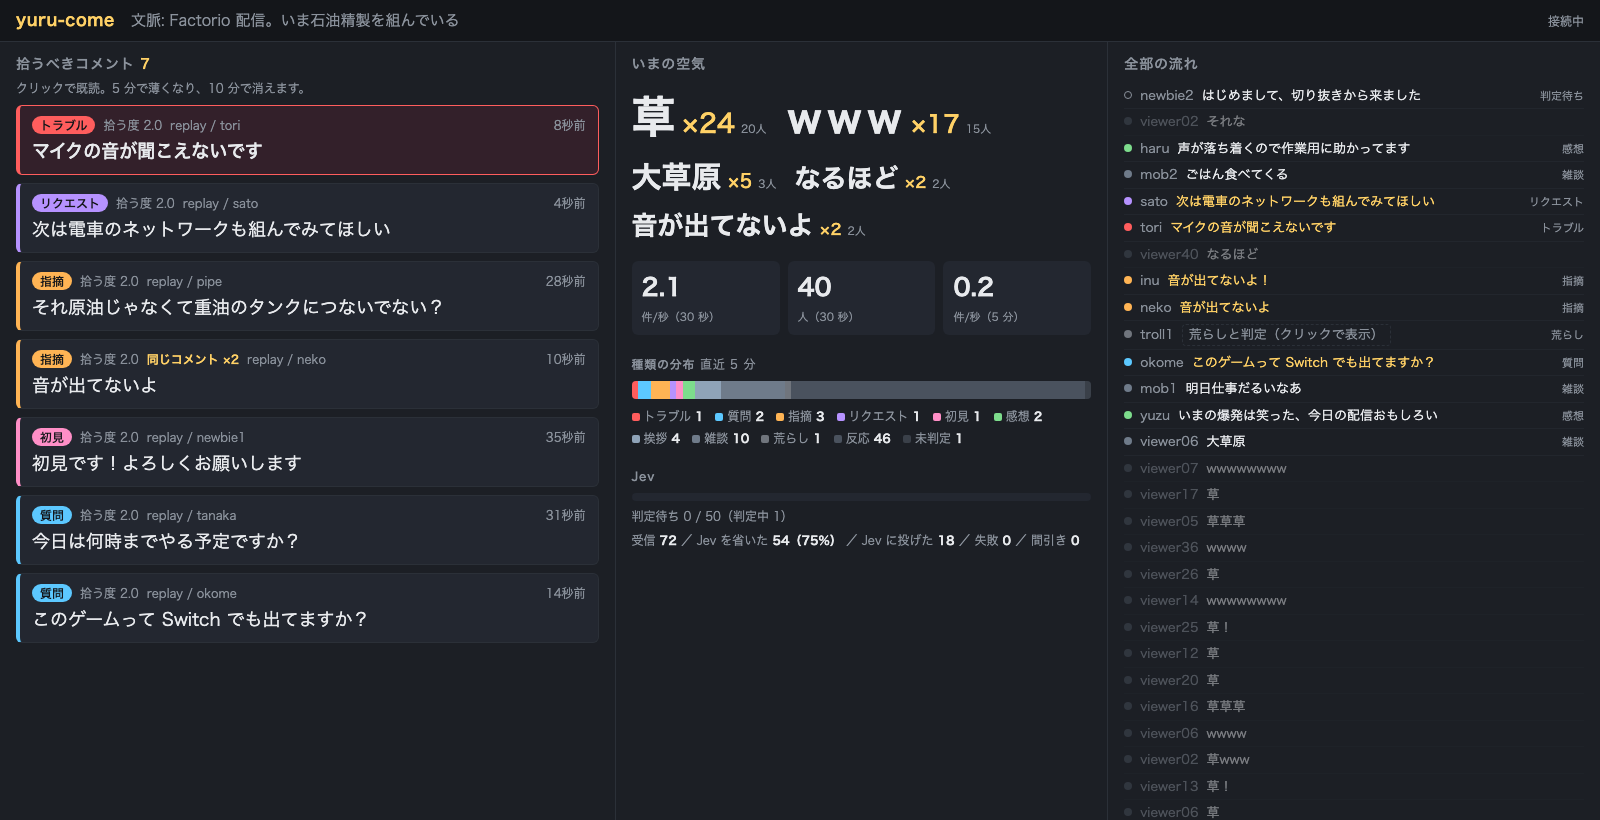
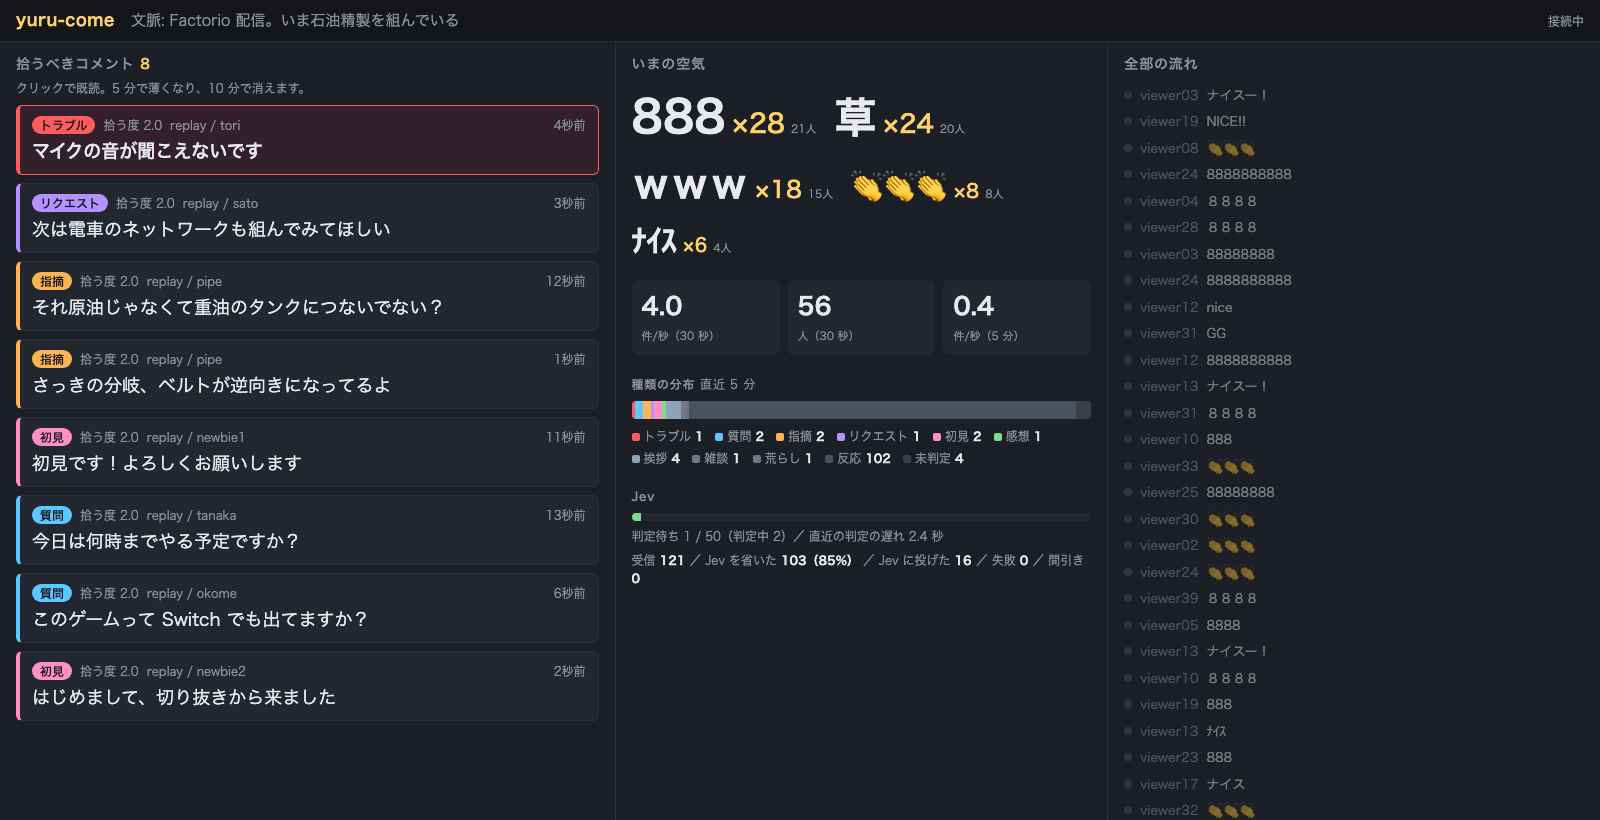
docs: README（コンセプト、処理の図、使い方、kind、評価結果、併用の仕方）と NOTICE を追加

diff --git a/README.mbt.md b/README.mbt.md
@@ -1,1 +1,303 @@
-# hiroyannnn/yuru-come
+# yuru-come（ゆるコメントビューワー）
+
+配信のコメントを**全部読まなくていい**ようにする、拾い上げ専用パネルです。
+
+コメントが多い配信では、質問や初見の挨拶が「草」「www」「8888」の波に埋もれます。yuru-come は同じ反応を束ねて「草 ×48」にまとめ、残った中身のあるコメントだけを [TypeSafe Jev](https://docs.typesafe.ai/) に仕分けさせて、配信者が拾うべきものを左の枠に出します。
+
+![ダッシュボード](docs/dashboard.png)
+
+既存のコメントビューワー（わんコメ、マルチコメントビューア、CastCraft など）の置き換えではありません。それらは複数サイトのコメントを 1 画面に集めて流す・読み上げるための道具で、yuru-come はその横に置く「拾い上げ専用」の画面です（[既存のコメントビューワーとの併用](#既存のコメントビューワーとの併用)）。
+
+## 処理の流れ
+
+```mermaid
+flowchart LR
+  S[Source<br>Twitch / YouTube / stdin / replay] --> N[正規化]
+  N --> B[1. 束ねる<br>同じ反応を時間窓でまとめる]
+  B --> R{反応？<br>長さ・文字種・辞書}
+  R -- はい --> K[kind = reaction]
+  R -- いいえ --> D{同じ束が<br>判定済み？}
+  D -- はい --> I[その判定に相乗り]
+  D -- いいえ --> Q[判定待ちキュー<br>上限 50]
+  Q -- あふれた分 --> U[未判定のまま<br>流れにだけ出す]
+  Q --> J[2. 仕分ける<br>Jev: kind + priority]
+  K --> V[3. 見せる]
+  I --> V
+  J --> V
+  U --> V
+  V --> P[拾うべきコメント]
+  V --> M[いまの空気]
+  V --> F[全部の流れ]
+```
+
+1. **束ねる（Jev を使わない）**: コメントを正規化して、同じ反応を 30 秒の時間窓の中でまとめます。
+2. **仕分ける（Jev）**: 束ねられなかった中身のあるコメントだけを Jev に投げ、種類（kind）と「配信者が拾うべき度」（priority）を 1 リクエストで判定します。Jev は文章を生成しない判断専用モデルで、型付きの質問に確率分布で答えます。
+3. **見せる**: 3 枠のダッシュボードに出します。
+
+Jev が遅くてもチャットの読み取りは止めません。判定待ちが上限を超えたら、古くて短いコメントから「未判定のまま全部の流れにだけ出す」扱いにして落とします。
+
+## セットアップ
+
+[MoonBit](https://www.moonbitlang.com/download/)（moon 0.1.20260915 以降）と、Jev 互換の判定サーバが必要です。
+
+```bash
+git clone https://github.com/hiroyannnn/yuru-come
+cd yuru-come
+moon build --target native
+```
+
+判定サーバは環境変数で選びます。
+
+| 環境変数 | 既定 | 意味 |
+| --- | --- | --- |
+| `JEV_URL` | `http://127.0.0.1:8000` | Jev 互換 API のベース URL（`POST /v1/systemone`） |
+| `JEV_API_KEY` | `local` | Bearer トークン |
+| `JEV_MODEL` | `jev-latest` | リクエストに載せるモデル名 |
+| `YOUTUBE_API_KEY` | なし | `--source youtube` のときだけ必要 |
+
+本家 Jev は Vercel AI Gateway 経由で使えます。
+
+```bash
+export JEV_URL=https://ai-gateway.vercel.sh/typesafe
+export JEV_MODEL=typesafe-ai/jev
+export JEV_API_KEY=<AI Gateway の API キー>
+```
+
+ローカルで試すなら [open-jev](https://github.com/daseinlabs/open-jev)（Gemma 3 4B）を `127.0.0.1:8000` で起動します。ただし open-jev は score 質問（priority）がほぼ常に最大値になり、1 リクエストに 1.3 秒ほどかかります。open-jev で使うときは `--priority-threshold 2.1` を付けて種類だけで拾ってください（[評価結果](#評価結果)）。
+
+## 使い方
+
+```bash
+moon run --target native cmd/yuru-come -- --source twitch --twitch <channel> --port 8791
+```
+
+`http://127.0.0.1:8791/` を開くとダッシュボードが出ます。配信者が自分で見る画面で、OBS に載せるものではありません。
+
+| オプション | 既定 | 意味 |
+| --- | --- | --- |
+| `--source stdin\|twitch\|youtube\|replay` | `stdin` | コメントの入口。複数指定可 |
+| `--sink web\|terminal` | `web` | 出口。複数指定可 |
+| `--context <text>` | なし | Jev に渡す配信の文脈（配信タイトルや話題）。指摘や質問の判定が安定します |
+| `--port <n>` / `--host <addr>` | `8791` / `127.0.0.1` | ダッシュボードの待ち受け |
+| `--workers <n>` | `2` | 並行して Jev に投げる本数。本家 Jev なら増やせます |
+| `--queue-limit <n>` | `50` | 判定待ちキューの上限 |
+| `--window <sec>` | `30` | 反応を束ねる時間窓 |
+| `--threshold <0..1>` | `0.85` | 短いコメントを同一視する類似度の下限 |
+| `--metric levenshtein\|jaro-winkler` | `levenshtein` | 類似度の種類 |
+| `--reaction-word <word>` | なし | 早期判定の辞書に足す語。複数指定可 |
+| `--priority-threshold <0..2>` | `1.5` | この priority 以上なら種類によらず拾う。2 より大きくすると種類だけで拾う |
+
+### Source
+
+**Twitch**: IRC に匿名（`justinfan…`、読み取り専用）で接続します。キーもログインも要りません。エモートは `emotes` タグの位置から名前を取り出し、スタンプとして扱います。
+
+```bash
+moon run --target native cmd/yuru-come -- --source twitch --twitch <channel> --context "配信の話題"
+```
+
+**YouTube Live**: Data API v3 を API キーでポーリングします（公開ライブなら OAuth 不要）。`<videoId>` は `watch?v=` の後ろです。
+
+```bash
+export YOUTUBE_API_KEY=<API キー>
+moon run --target native cmd/yuru-come -- --source youtube --youtube <videoId>
+```
+
+**複数同時**: `--source` を並べます。
+
+```bash
+moon run --target native cmd/yuru-come -- --source twitch --twitch <channel> --source youtube --youtube <videoId>
+```
+
+**stdin**: `参加者ID<TAB>発言` を 1 行ずつ読みます。TAB が無い行は匿名の発言です。ほかのツールからパイプするための入口です。
+
+```bash
+printf 'alice\tこれ何のゲームですか？\nbob\t草\n' | moon run --target native cmd/yuru-come -- --source stdin --sink terminal
+```
+
+**replay**: `時刻ms<TAB>参加者ID<TAB>発言` の TSV を `--speed N` 倍速で再生します。高流速のテストと開発用です。`samples/wave.tsv` は、反応の波に質問・初見・指摘・トラブル報告・荒らしが埋もれている約 2 分の合成ログ（200 行）です。
+
+```bash
+moon run --target native cmd/yuru-come -- --source replay --replay samples/wave.tsv --speed 10
+```
+
+**TikTok（非公式・不安定）**: TikTok には公式のコメント取得 API がありません。`tools/tiktok-bridge/` は、Node の非公式ライブラリ [tiktok-live-connector](https://github.com/zerodytrash/TikTok-Live-Connector) でコメントを受けて標準出力に流すだけの小さなブリッジで、stdin Source にパイプして使います。TikTok 側の仕様変更で予告なく動かなくなります。このブリッジは実際の TikTok LIVE では未検証です。ライブラリは MIT で配布された最後の版 2.4.0 に固定しています（2.4.1 以降は AGPL-3.0-only）。
+
+```bash
+(cd tools/tiktok-bridge && npm install)
+node tools/tiktok-bridge/bridge.mjs <TikTok のユーザー名> \
+  | moon run --target native cmd/yuru-come -- --source stdin --stdin-source tiktok
+```
+
+### Sink
+
+**web**（既定）: 下の 3 枠のダッシュボードです。`GET /api/state` が全状態の JSON、`POST /api/dismiss`（`{"id": <項目 ID>}`）が拾い上げの既読です。静的ファイルは `web/` にある素の HTML / CSS / JS で、外部ライブラリは使っていません。
+
+**terminal**: 拾うべきコメントだけを 1 行ずつ出します。デバッグと最小構成用です。
+
+```
+!! [トラブル 2.0] twitch/Alice: マイクの音が聞こえないです
+[質問 1.3] twitch/Bob: 今日は何時までやる予定ですか？
+```
+
+## ダッシュボードの見方
+
+- **左「拾うべきコメント」**: 種類のバッジ、拾う度（priority）、投稿者とプラットフォーム。クリックで既読にして消します。5 分たつと薄くなり、10 分で消えます。配信トラブルの報告は赤い枠で最上位に固定します。並びは priority の高い順、同じなら新しい順です。同じコメントが重ねて来たら「同じコメント ×3」と出ます。
+- **中「いまの空気」**: 直近 30 秒の反応の束を、件数が多いほど大きく出します（「草 ×48 20人」）。その下に流速（件/秒）と参加者数、直近 5 分の種類の分布、Jev の判定待ち（滞留）と直近の判定の遅れ、Jev を省いた割合、間引いた件数が出ます。
+- **右「全部の流れ」**: 従来のビューワーに相当する全コメントです。反応は薄く、荒らしと判定されたコメントは折りたたみ、拾い上げに入ったコメントは色つきで出ます。判定待ちは白抜きの丸、間引いたコメントは「未判定（間引き）」と出ます。
+
+## kind の一覧
+
+| kind | 意味 | 拾う？ |
+| --- | --- | --- |
+| `question` | 配信者への質問 | 拾う |
+| `request` | リクエスト・提案・指示 | 拾う |
+| `correction` | 指摘・ツッコミ・ミスの報告 | 拾う |
+| `first_time` | 初見・初コメを名乗る挨拶 | 拾う |
+| `trouble` | 配信トラブルの報告（音が出ていない、画面が止まった等） | 拾う（最上位に固定） |
+| `feedback` | 感想・応援 | priority ≥ 1.5 なら拾う |
+| `greeting` | 挨拶 | priority ≥ 1.5 なら拾う |
+| `chatter` | 視聴者同士の雑談・独り言 | priority ≥ 1.5 なら拾う |
+| `abuse` | 荒らし・誹謗中傷・スパム | 拾わない。流れでも折りたたむ |
+| `reaction` | 短い反応。Jev を呼ばずに早期判定で決まる | 拾わない |
+| `unjudged` | 未判定（流量制御で間引いた、または判定に失敗した） | 拾わない |
+
+priority は Jev の score 質問（「拾わなくてよい」「余裕があれば拾う」「今すぐ拾うべき」）の期待値で、0〜2 の実数です。
+
+## 束ねと早期判定のルール
+
+**正規化**（束ねのキーを作るだけで、Jev と画面には原文を渡します）
+
+- 全角英数・記号を半角に、半角カナを全角に、カタカナをひらがなに、大文字を小文字にそろえる
+- 前後と連続の空白を除く
+- 同じ文字の連続を 1 文字にする（`wwww`→`w`、`草草草`→`草`、`うおおおお`→`うお`）。数字は全桁が同じとき（`8888`）だけ圧縮し、`1000` は壊さない
+- 末尾の記号ゆれ（`！？。ー〜…`）と、日本語の直後の笑いの `w` を除く（`それはないわwww`→`それはないわ`）
+- Twitch のエモート名と YouTube の `:emoji:` はトークンとして保持し、同じスタンプの連続は 1 個にする
+
+**束ね**: 正規化後の完全一致に加えて、12 文字以下の短いコメントは文字列類似度（[hiroyannnn/strsim](https://github.com/hiroyannnn/strsim) の正規化 Levenshtein、既定の閾値 0.85）でも同じ束にします。束は件数・参加者数・最終時刻・代表テキスト（いちばん短い原文）を持ち、時間窓（既定 30 秒）を過ぎた分は件数から外れ、空になった束は消えます。
+
+**相乗り**: 束の先頭のコメントだけを Jev に投げ、同じ束に入った後続は先頭の判定を引き継いで Jev を呼びません。先頭が拾い上げに入っていれば、その項目の件数が増えます。ただし、質問や指摘のような拾うべき種類の束に**類似度だけ**で入ったコメントは相乗りさせず、個別に判定します（「これ何の曲ですか」を「これ何の本ですか」の束に埋もれさせないため）。
+
+**早期判定**（Jev を呼ばずに `reaction` と決める）
+
+1. 空、スタンプだけ、記号・数字・絵文字だけ
+2. 文字の部分が辞書にある、または正規化して 1 文字
+3. 同じ文字を 3 回以上伸ばした、正規化後 4 文字以下の叫び（`きたあああ`）。疑問符つきは除く
+
+短いだけでは決めません。「なぜ」「やめて」「初見」は Jev に回します。辞書は `lib/reaction.mbt` の `default_reaction_words` で、`--reaction-word` で足せます。
+
+**流量制御**: 判定待ちは新しいものから判定します。キューが上限を超えたら、古い半分のうちいちばん短いコメントを未判定のまま流します。
+
+## 評価結果
+
+`eval/comments.tsv` は、種類と「拾うべきか」を付けた日本語コメント 70 件の合成データです。`cmd/eval` は本番と同じ早期判定とリクエストで 1 件ずつ仕分けて、正解率・混同行列・所要時間を出します。
+
+```bash
+moon run --target native cmd/eval
+JEV_URL=https://ai-gateway.vercel.sh/typesafe JEV_MODEL=typesafe-ai/jev JEV_API_KEY=... moon run --target native cmd/eval
+```
+
+2026-09-20 時点、ローカルの open-jev（Gemma 3 4B）での結果です。本家 Jev では未計測です（手元に API キーが無かったため）。
+
+| 指標 | open-jev（Gemma 3 4B） |
+| --- | --- |
+| kind の正解率（早期判定 + Jev） | 61 / 70 = 87.1% |
+| kind の正解率（Jev に投げた分だけ） | 55 / 64 = 85.9% |
+| 拾うべきか: 種類だけで拾う | 適合率 97.2% / 再現率 97.2% |
+| 拾うべきか: 種類 または priority ≥ 1.5（既定） | 適合率 62.1% / 再現率 100% |
+| 1 リクエスト（2 質問）の所要時間 | 平均 1340ms / 中央値 1187ms / p95 1996ms |
+
+| 正解＼判定 | question | request | feedback | correction | greeting | first_time | trouble | abuse | chatter | reaction |
+| --- | --- | --- | --- | --- | --- | --- | --- | --- | --- | --- |
+| question | 8 | 0 | 0 | 0 | 0 | 0 | 0 | 0 | 0 | 0 |
+| request | 1 | 6 | 0 | 0 | 0 | 0 | 0 | 0 | 0 | 0 |
+| feedback | 0 | 0 | 7 | 0 | 0 | 0 | 0 | 0 | 0 | 0 |
+| correction | 0 | 0 | 0 | 7 | 0 | 0 | 0 | 0 | 0 | 0 |
+| greeting | 0 | 0 | 0 | 0 | 3 | 0 | 0 | 0 | 3 | 0 |
+| first_time | 0 | 0 | 0 | 0 | 0 | 6 | 0 | 0 | 0 | 0 |
+| trouble | 0 | 0 | 0 | 1 | 0 | 0 | 6 | 0 | 0 | 0 |
+| abuse | 0 | 0 | 0 | 0 | 0 | 0 | 0 | 5 | 1 | 0 |
+| chatter | 0 | 0 | 0 | 1 | 0 | 0 | 0 | 0 | 7 | 0 |
+| reaction | 0 | 0 | 1 | 0 | 0 | 0 | 0 | 0 | 1 | 6 |
+
+分かったこと:
+
+- **open-jev の priority は使えません。** Gemma 3 4B は score 質問にほぼ常に最大値（1.95〜2.00）を返します。「眠くなってきた」も「音が出てないよ」も 2.0 です。段階の並びを逆にしても 5 段階にしても傾向は変わりませんでした。既定の「priority ≥ 1.5 なら拾う」のままだと感想も雑談も全部拾ってしまうので、open-jev では `--priority-threshold 2.1` で種類だけで拾ってください。本家 Jev は確率が適度ににじむので、既定のままで動く想定です。
+- **criteria は定義を先に書く。** 例だけを並べた説明文では kind の正解率が 78.6% でしたが、「配信者への質問。配信者に答えてほしいことを尋ねている。」のように定義を先に書いて例を続ける形にすると 87.1% になりました（例は評価セットと重ならないもの）。とくに trouble が 3/7 から 6/7 に上がりました。
+- **外れやすいもの**: 用件つきの挨拶（「お風呂入ってくるので離脱します、おつでした」→ chatter）、疑問形のトラブル報告（「音ズレしてませんか？」→ correction）、URL つきのスパム（→ chatter）、視聴者どうしのツッコミ（「上のコメントの人、それネタバレじゃない？」→ correction）。拾うべきかどうかにはほとんど響きません。
+- **早期判定のすり抜け**: 「うますぎて草」「ないすぅ！」は辞書に無く Jev に回りました。害は Jev を 1 回余分に呼ぶことだけです。
+
+### 流速に追いつけるか
+
+`samples/wave.tsv`（200 件）を open-jev で再生した結果です（`--priority-threshold 2.1`）。
+
+| 再生速度 | 流速 | Jev に投げた割合 | 判定待ちのピーク | 間引き |
+| --- | --- | --- | --- | --- |
+| 1 倍速 | 平均 1.7 件/秒、ピーク 14 件/秒 | 21%（79% は早期判定と相乗りで省略） | 0 / 50 | 0 件 |
+| 10 倍速 | 平均 16.5 件/秒、ピーク 68 件/秒 | 21%（79% は早期判定と相乗りで省略） | 34 / 50 | 0 件 |
+| 10 倍速、`--queue-limit 20` | 同上 | 15% | 20 / 20 | 18 件 |
+
+1 倍速では判定待ちは溜まらず、拾い上げはコメントの到着から 1〜2 秒で出ます。10 倍速では 12 秒で流し終え、判定待ちを捌き終えるまでさらに 40 秒かかりました。どちらも取り込みは一度も止まらず、ダッシュボードも 1 秒ごとに更新され続けました。
+
+実在の配信中の Twitch チャンネル（日本語、4.6〜6.6 件/秒、5 分で約 540 人が発言）に匿名接続した結果です。実際のチャットは辞書に無い短い雑談が多く、早期判定と相乗りで省けたのは 26〜29% でした。open-jev は 1 秒に 0.75 件しか捌けないので、判定待ちは上限に張り付き、約半分が未判定のまま流れました。それでも取り込みとダッシュボードは止まらず、判定待ちを新しい順に捌くことで、拾い上げはコメントの到着から 2.5〜3 秒で出ています（先入れ先出しでは 28〜42 秒遅れでした）。この流速で全部を仕分けるには、本家 Jev と `--workers` の増加が必要です。
+
+## 既存のコメントビューワーとの併用
+
+yuru-come はコメントの読み上げも、OBS へのコメント表示も、複数サイトの一覧もしません。それらは今お使いのコメントビューワーに任せて、yuru-come はサブモニタの隅に置いてください。
+
+- **どちらも同じ配信に別々に接続します。** Twitch は匿名の読み取り専用接続、YouTube は API キーでのポーリングなので、配信者のアカウントにも既存のビューワーにも影響しません。YouTube は Data API のクォータを消費します。
+- **見るのは左の枠だけで構いません。** 流れを追うのは既存のビューワーか読み上げに任せ、左の枠に何か出たら拾う、という使い方です。
+- **荒らしの対処はしません。** 折りたたんで目に入りにくくするだけです。BAN やタイムアウトは各サイトのモデレーション機能を使ってください。
+- わんコメなどのログや WebSocket 出力を `参加者ID<TAB>発言` に変換できれば、`--source stdin` にパイプして取り込めます。
+
+## ライブラリとして使う
+
+コア（`lib/`）は純粋な MoonBit で、wasm / wasm-gc / js / native の全ターゲットで動きます。ルートパッケージから再エクスポートしています。
+
+```mbt check
+///|
+test "正規化して束ねる" {
+  let bundler = @lib.Bundler::new()
+  for text in ["草", "草www", "草草草！"] {
+    let comment = @lib.Comment::new("demo:viewer", text)
+    bundler.add(@lib.normalize(text), comment, 0) |> ignore
+  }
+  let top = bundler.summaries(0)
+  assert_eq(top[0].representative, "草")
+  assert_eq(top[0].count, 3)
+  assert_true(@lib.ReactionRules::new().is_reaction("きたあああ"))
+  assert_false(@lib.ReactionRules::new().is_reaction("初見です"))
+}
+```
+
+`Engine` は同期の状態機械です。`ingest` でコメントを取り込み、`take_next` で判定待ちを受け取り、`complete` で判定結果を返し、`state` で画面用の全状態を得ます。Jev への問い合わせは呼び出し側（`runtime` と `jev`）の仕事なので、HTTP なしでテストできます。
+
+| パッケージ | ターゲット | 役割 |
+| --- | --- | --- |
+| `lib` | 全部 | 正規化、束ね、早期判定、リクエスト組み立て、レスポンス解釈、拾い上げ、空気の集計、エンジン、各 Source のパーサ |
+| `runtime` | native | Source の並行実行と、判定ワーカー（タイムアウトつき） |
+| `jev` | native | Jev 互換 API の HTTP クライアント |
+| `adapters/*` | native | stdin / twitch / youtube / replay の Source、terminal / web の Sink |
+| `cmd/yuru-come` | native | CLI |
+| `cmd/eval` | native | 評価コマンド |
+
+```bash
+moon test --target all
+```
+
+## 未実装・既知の制限
+
+- 「いまの空気」を 30 秒ごとに一文にする LLM 要約は未実装です。
+- 本家 Jev での評価と、YouTube Live での実機確認は未実施です。
+- 正規化の連続圧縮は「ここ」→「こ」のような普通の語も縮めます。束ねのキーにしか使わないので表示は変わりませんが、まれに別のコメントが同じ束になります。
+- 流量制御は短いコメントから落とすので、「音出てない」のような短くて大事な報告が、滞留中は未判定のまま流れることがあります。
+- 絵文字の結合文字列（肌の色、ZWJ）は連続圧縮されません。
+
+## Acknowledgments
+
+- [hiroyannnn/yuru-poll](https://github.com/hiroyannnn/yuru-poll)（Apache-2.0）: Twitch / YouTube / stdin のパーサとアダプタ、Jev クライアント、runtime、web サーバの骨格、CLI の解釈をコピーして直しています。
+- [hiroyannnn/strsim](https://github.com/hiroyannnn/strsim)（Apache-2.0、strsim-rs 由来のアルゴリズムは MIT）: 短いコメントの類似度。
+- [moonbitlang/async](https://github.com/moonbitlang/async)（Apache-2.0）: イベントループ、ソケット、TLS、HTTP。
+- [tiktok-live-connector](https://github.com/zerodytrash/TikTok-Live-Connector): `tools/tiktok-bridge` が利用者の `npm install` で取得します（2.4.0、MIT）。このリポジトリにコードは含みません。
+- 判定は [TypeSafe Jev](https://docs.typesafe.ai/) と、その互換実装 [open-jev](https://github.com/daseinlabs/open-jev) を使います。
+
+ライセンスは Apache-2.0 です。第三者の表示は [NOTICE](NOTICE) にあります。
